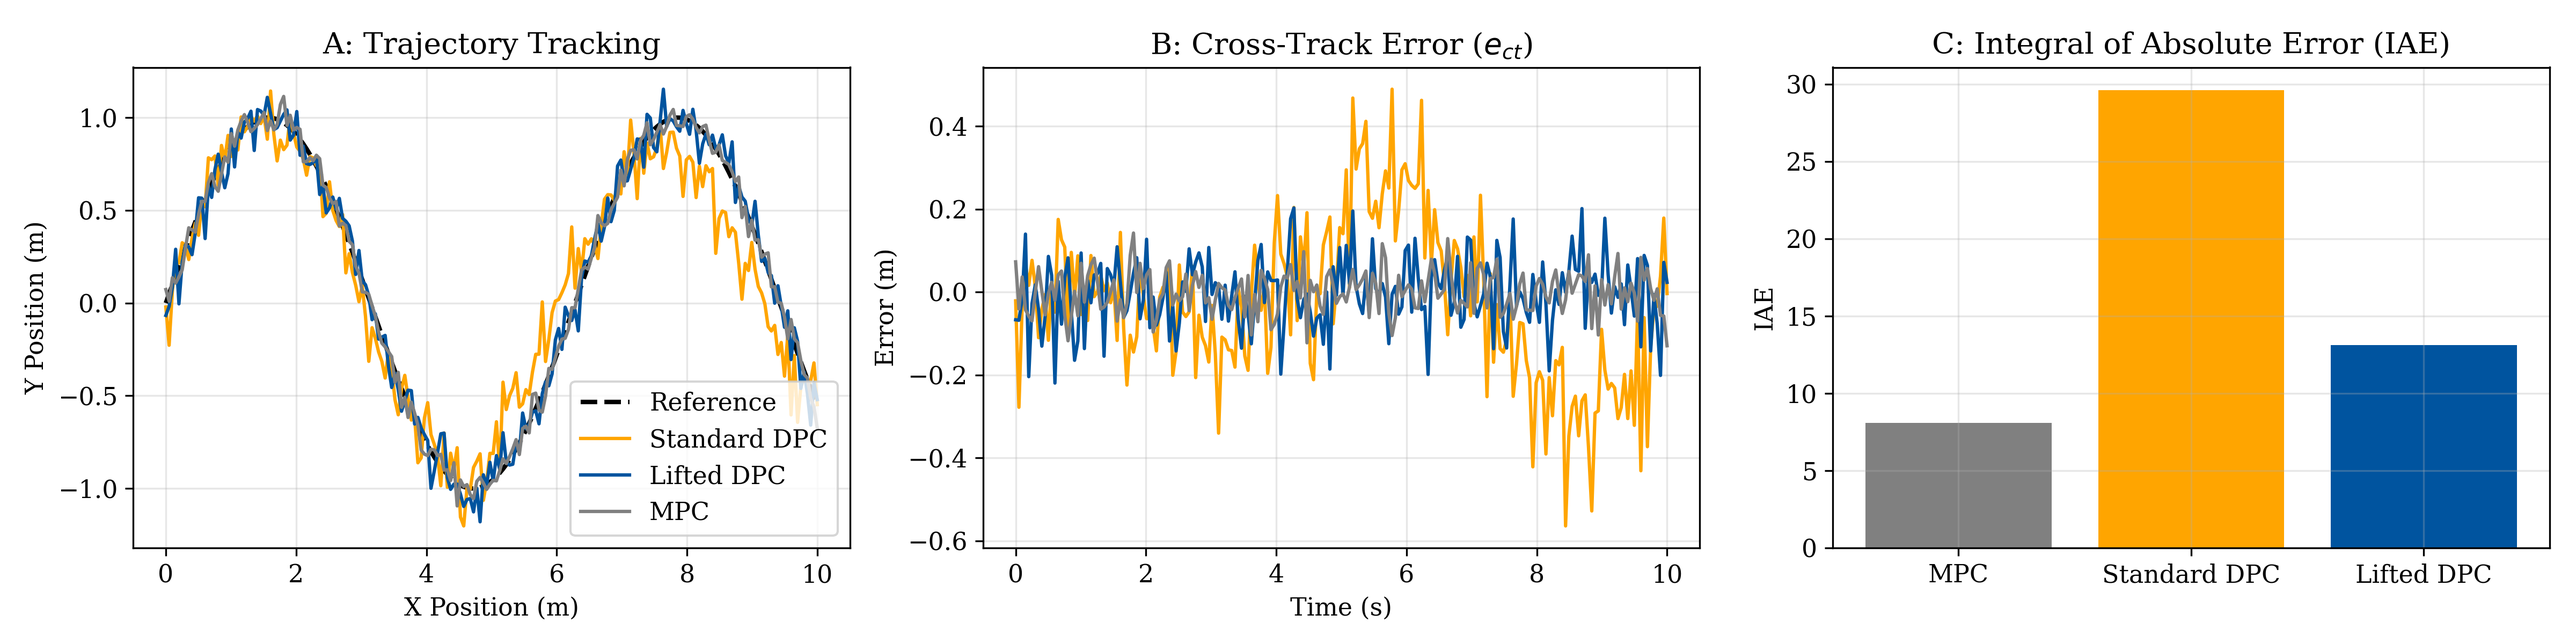
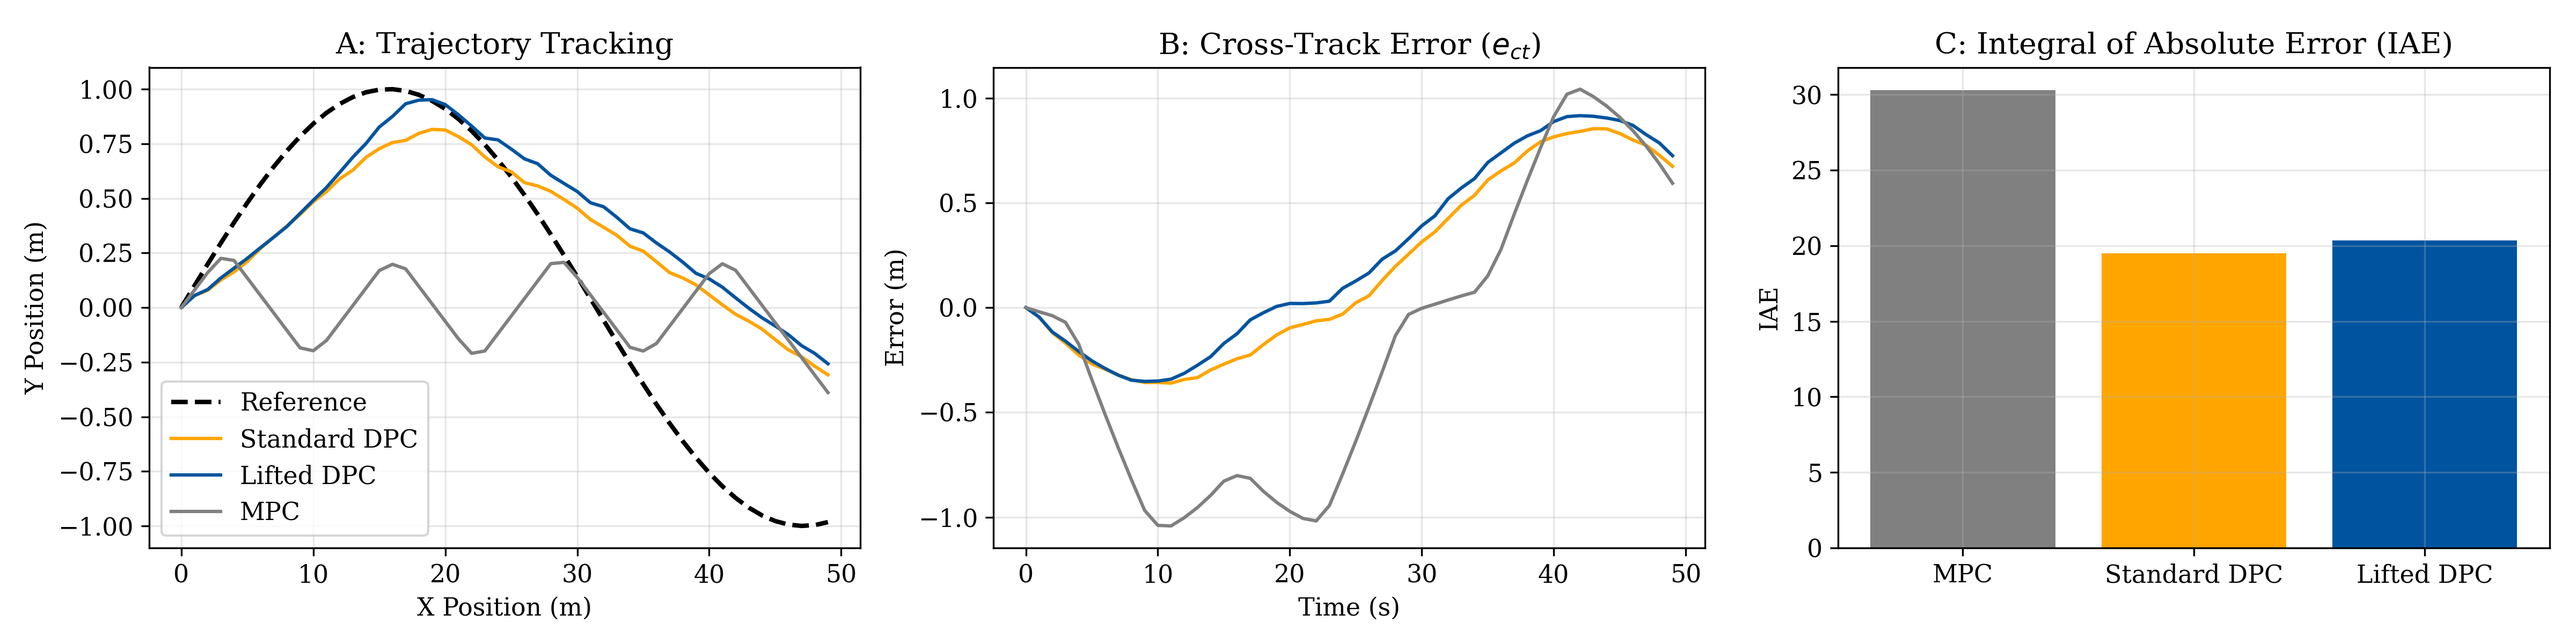
Enhance evaluation suite and reference generation with optional results input
- Updated `make_reference` function to accept a frequency parameter for more flexible reference signal generation.
- Modified `generate_performance_and_error` to utilize real simulation data if available, improving evaluation accuracy.
- Adjusted main simulation script to demonstrate the impact of path frequency on controller performance.
- Updated binary files for evaluation figures.

diff --git a/evaluation_suite.py b/evaluation_suite.py
@@ -27,15 +27,23 @@ COLORS = {
     'Lifted DPC': '#00549F' # RWTH Blue
 }
 
-def generate_performance_and_error():
+def generate_performance_and_error(results=None):
     fig, axes = plt.subplots(1, 3, figsize=(16, 4))
     
-    t = np.linspace(0, 10, 200)
-    ground_truth = np.sin(t)
-    
-    mpc_traj = ground_truth + np.random.normal(0, 0.05, 200)
-    lifted_traj = ground_truth + np.random.normal(0, 0.08, 200)
-    std_traj = ground_truth * 0.8 + np.sin(t*1.2)*0.2 + np.random.normal(0, 0.1, 200)
+    if results is not None:
+        # Use real simulation data
+        t = np.arange(len(results["MPC"].y))
+        ground_truth = np.sin(0.1 * t)
+        mpc_traj = results["MPC"].y
+        std_traj = results["Vanilla DPC"].y
+        lifted_traj = results["Structure-Informed DPC"].y
+    else:
+        # Fallback to synthetic if no results passed
+        t = np.linspace(0, 10, 200)
+        ground_truth = np.sin(t)
+        mpc_traj = ground_truth + np.random.normal(0, 0.05, 200)
+        lifted_traj = ground_truth + np.random.normal(0, 0.08, 200)
+        std_traj = ground_truth * 0.8 + np.sin(t*1.2)*0.2 + np.random.normal(0, 0.1, 200)
 
     # Plot A: Trajectory (S-Curve)
     axes[0].plot(t, ground_truth, 'k--', label='Reference', lw=2)
@@ -215,7 +223,7 @@ def generate_pareto_front():
 
 def generate_all_plots(results=None):
     print("Generating Academic Evaluation Suite Plots...")
-    generate_performance_and_error()
+    generate_performance_and_error(results)
     generate_open_loop_prediction()
     generate_computational_complexity()
     generate_roa_heatmaps()

diff --git a/main.py b/main.py
@@ -113,7 +113,10 @@ def main() -> None:
         ),
     )
 
-    r = make_reference(cfg.t_sim)
+    # 4. Generate the path to track. Higher frequencies means tighter, more aggressive turns.
+    # Try increasing this frequency (e.g. to 0.8) to see Vanilla DPC fail and Lifted DPC succeed!
+    path_frequency = 0.5
+    r = make_reference(cfg.t_sim, frequency=path_frequency)
 
     # Run simulations
     res_mpc = simulate_mpc(system=system, controller=mpc, x0=cfg.x0, r=r, t_sim=cfg.t_sim)

diff --git a/data.py b/data.py
@@ -105,6 +105,6 @@ def build_hankel_from_trajectories(
     return np.concatenate(blocks, axis=1)
 
 
-def make_reference(t_sim: int) -> np.ndarray:
+def make_reference(t_sim: int, frequency: float = 0.1) -> np.ndarray:
     t = np.arange(t_sim, dtype=float)
-    return np.sin(0.1 * t)
+    return np.sin(frequency * t)
